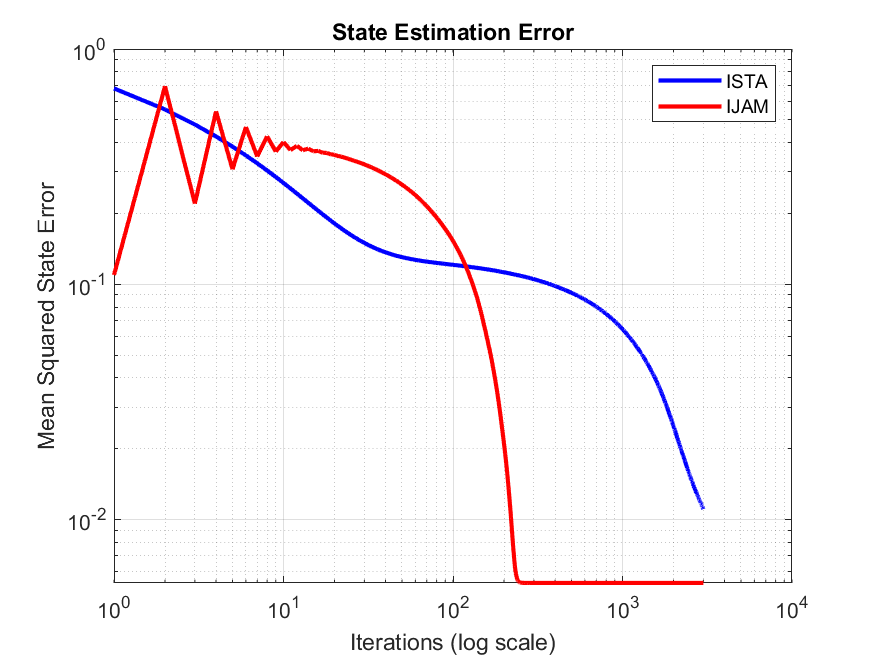
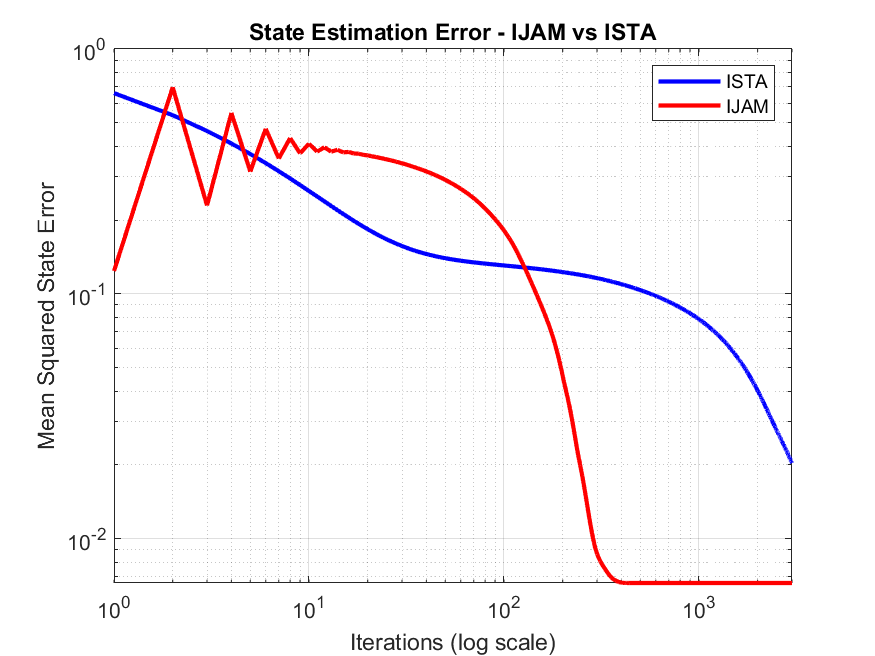
nuovi plot per grafici StateErrror e SupportError

diff --git a/1_Modeling/Task1/Test_Attacks.m b/1_Modeling/Task1/Test_Attacks.m
@@ -3,73 +3,84 @@
 % Parametri base
 n = 15; q = 30; sigma = 1e-2;
 lambda = 0.1;
-max_iter = 3000; num_runs = 20; tol = 1e-10;
-G = [C, eye(q)];
-nu_ista = 1 / norm(G, 2)^2;
-nu_ijam = 0.7;
+max_iter = 1e4; num_runs = 20; tol = 0;
+
+% Creazione cartella per i plot
+if ~exist('NewPlots/Plot_attacks', 'dir')
+    mkdir('NewPlots/Plot_attacks');
+end
 
 % Valori di h da testare
-h_values = [1, 3, 5, 10, 15];
+h_values = [ 3, 5, 10, 20];
 
 for hv = 1:length(h_values)
     h = h_values(hv);
-    fprintf('\\n===== h = %d sensori attaccati =====\\n', h);
+    fprintf('\n===== TESTING h = %d sensors under attack =====\n', h);
 
+    % Preallocazione errori
     state_errors_ista_all = zeros(max_iter, num_runs);
     attack_errors_ista_all = zeros(max_iter, num_runs);
     state_errors_ijam_all = zeros(max_iter, num_runs);
     attack_errors_ijam_all = zeros(max_iter, num_runs);
 
     for run = 1:num_runs
+        % Generazione dati
         C = randn(q, n);
         x_true = 2 + rand(n,1);
         neg_idx = rand(n,1) > 0.5;
         x_true(neg_idx) = -3 + rand(sum(neg_idx),1);
-        attack_idx = randperm(q, h);
-        a_true = zeros(q,1);
-        a_true(attack_idx) = (-1).^randi([0,1], h, 1) .* (4 + rand(h,1));
-        y = C * x_true + a_true + sigma * randn(q,1);
 
+        a_true = zeros(q,1);
+        attack_idx = randperm(q, h);
+        a_true(attack_idx) = (-1).^randi([0,1], h, 1) .* (4 + rand(h,1));
+
+        eta = sigma * randn(q,1);
+        y = C * x_true + a_true + eta;
+
+        G = [C, eye(q)];
+        nu_ista = 1 / norm(G, 2)^2;
+        nu_ijam = 0.7;
+
+        % Esecuzione algoritmi
         [~, ~, se_ista, ae_ista] = ISTA(C, y, lambda, nu_ista, max_iter, tol, x_true, a_true);
         [~, ~, se_ijam, ae_ijam] = IJAM(C, y, lambda, nu_ijam, max_iter, tol, x_true, a_true);
 
+        % Salvataggio errori
         state_errors_ista_all(:, run) = se_ista;
         attack_errors_ista_all(:, run) = ae_ista;
         state_errors_ijam_all(:, run) = se_ijam;
         attack_errors_ijam_all(:, run) = ae_ijam;
     end
 
-    % Media per ogni iterazione
+    % Calcolo delle medie
     state_errors_ista_mean = mean(state_errors_ista_all, 2, 'omitnan');
     attack_errors_ista_mean = mean(attack_errors_ista_all, 2, 'omitnan');
     state_errors_ijam_mean = mean(state_errors_ijam_all, 2, 'omitnan');
     attack_errors_ijam_mean = mean(attack_errors_ijam_all, 2, 'omitnan');
 
-    % Plot
+    % === PLOT STATE ERROR
     figure;
-    loglog(1:max_iter, state_errors_ista_mean, 'b', 'LineWidth', 2); hold on;
-    loglog(1:max_iter, state_errors_ijam_mean, 'r', 'LineWidth', 2);
-    xlabel('Iterations (log scale)');
-    ylabel('Mean Squared State Error');
-    title(['State Error - h = ', num2str(h)]);
+    semilogx(1:max_iter, state_errors_ista_mean, 'b', 'LineWidth', 1); hold on;
+    semilogx(1:max_iter, state_errors_ijam_mean, 'r', 'LineWidth', 1);
+    xlabel('Iterations (log scale)', 'Interpreter', 'latex');
+    ylabel('Mean Squared State Error', 'Interpreter', 'latex');
+    title(['State Estimation Error - $h$ = ', num2str(h)], 'Interpreter', 'latex');
     legend('ISTA', 'IJAM');
     grid on;
 
-    filename = sprintf('Plot_attacks/StateError_h_%d.png', h);
+    filename = sprintf('NewPlots/Plot_attacks/StateError_h_%d.png', h);
     saveas(gcf, filename);
 
-
+    % === PLOT SUPPORT ERROR
     figure;
-    loglog(1:max_iter, attack_errors_ista_mean, 'b', 'LineWidth', 2); hold on;
-    loglog(1:max_iter, attack_errors_ijam_mean, 'r', 'LineWidth', 2);
-    xlabel('Iterations (log scale)');
-    ylabel('Mean Support Attack Error');
-    title(['Support Error - h = ', num2str(h)]);
+    semilogx(1:max_iter, attack_errors_ista_mean, 'b', 'LineWidth', 1); hold on;
+    semilogx(1:max_iter, attack_errors_ijam_mean, 'r', 'LineWidth', 1);
+    xlabel('Iterations (log scale)', 'Interpreter', 'latex');
+    ylabel('Mean Support Attack Error', 'Interpreter', 'latex');
+    title(['Support Attack Error - $h$ = ', num2str(h)], 'Interpreter', 'latex');
     legend('ISTA', 'IJAM');
     grid on;
 
-    filename = sprintf('Plot_attacks/SupportError_h_%d.png', h);
+    filename = sprintf('NewPlots/Plot_attacks/SupportError_h_%d.png', h);
     saveas(gcf, filename);
-
-
 end

diff --git a/1_Modeling/Task1/Test_Nu.m b/1_Modeling/Task1/Test_Nu.m
@@ -1,24 +1,30 @@
-%% TASK 1 - ANALISI VARIABILE NU
+%% TASK 1 - ANALISI VARIAZIONE DI NU
 
 % Parametri base
 n = 15; q = 30; h = 2; sigma = 1e-2;
 lambda = 0.1;
-max_iter = 3000; num_runs = 20; tol = 1e-10;
+max_iter = 1e4; num_runs = 20; tol = 0;
 
-% Valori da testare (fattori moltiplicativi di 1/||G||^2)
-nu_factors = [0.01, 0.05, 0.1, 0.5, 1.0];
+% Fattori moltiplicativi per nu = factor / ||G||^2
+nu_factors = [0.01, 0.1, 0.5, 1.0];
+
+% Creazione cartella se non esiste
+if ~exist('NewPlots/Plot_nu', 'dir')
+    mkdir('NewPlots/Plot_nu');
+end
 
 for nv = 1:length(nu_factors)
     factor = nu_factors(nv);
-    fprintf('\\n===== NU FACTOR = %.2f =====\\n', factor);
+    fprintf('\n===== NU FACTOR = %.3f =====\n', factor);
 
+    % Preallocazione errori
     state_errors_ista_all = zeros(max_iter, num_runs);
     attack_errors_ista_all = zeros(max_iter, num_runs);
     state_errors_ijam_all = zeros(max_iter, num_runs);
     attack_errors_ijam_all = zeros(max_iter, num_runs);
 
     for run = 1:num_runs
-        % Generazione dei dati
+        % Generazione dati casuali
         C = randn(q, n);
         x_true = 2 + rand(n,1);
         neg_idx = rand(n,1) > 0.5;
@@ -28,52 +34,49 @@ for nv = 1:length(nu_factors)
         a_true(attack_idx) = (-1).^randi([0,1], h, 1) .* (4 + rand(h,1));
         y = C * x_true + a_true + sigma * randn(q,1);
 
-        % Calcolo di G e adattamento di nu
+        % Adattamento step-size
         G = [C, eye(q)];
         nu = factor / norm(G, 2)^2;
 
-        % Esecuzione algoritmi
         [~, ~, se_ista, ae_ista] = ISTA(C, y, lambda, nu, max_iter, tol, x_true, a_true);
         [~, ~, se_ijam, ae_ijam] = IJAM(C, y, lambda, nu, max_iter, tol, x_true, a_true);
 
+        % Salvataggio errori
         state_errors_ista_all(:, run) = se_ista;
         attack_errors_ista_all(:, run) = ae_ista;
         state_errors_ijam_all(:, run) = se_ijam;
         attack_errors_ijam_all(:, run) = ae_ijam;
     end
 
-    % Medie su tutte le run
+    % Medie
     state_errors_ista_mean = mean(state_errors_ista_all, 2, 'omitnan');
     attack_errors_ista_mean = mean(attack_errors_ista_all, 2, 'omitnan');
     state_errors_ijam_mean = mean(state_errors_ijam_all, 2, 'omitnan');
     attack_errors_ijam_mean = mean(attack_errors_ijam_all, 2, 'omitnan');
 
-    % PLOT - Stato
+    % === PLOT STATE ERROR (x log, y lineare)
     figure;
-    loglog(1:max_iter, state_errors_ista_mean, 'b', 'LineWidth', 2); hold on;
-    loglog(1:max_iter, state_errors_ijam_mean, 'r', 'LineWidth', 2);
+    semilogx(1:max_iter, state_errors_ista_mean, 'b', 'LineWidth', 1); hold on;
+    semilogx(1:max_iter, state_errors_ijam_mean, 'r', 'LineWidth', 1);
     xlabel('Iterations (log scale)');
     ylabel('Mean Squared State Error');
-    title(['State Error - \nu Factor = ', num2str(factor)]);
+    title(['State Estimation Error - \nu = ', num2str(factor)]);
     legend('ISTA', 'IJAM');
     grid on;
-    
-    filename = sprintf('Plot_nu/StateError_nu_%.3f.png', factor);
+
+    filename = sprintf('NewPlots/Plot_nu/StateError_nu_%.3f.png', factor);
     saveas(gcf, filename);
 
-
-    % PLOT - Supporto
+    % === PLOT SUPPORT ERROR (x log, y lineare)
     figure;
-    loglog(1:max_iter, attack_errors_ista_mean, 'b', 'LineWidth', 2); hold on;
-    loglog(1:max_iter, attack_errors_ijam_mean, 'r', 'LineWidth', 2);
+    semilogx(1:max_iter, attack_errors_ista_mean, 'b', 'LineWidth', 1); hold on;
+    semilogx(1:max_iter, attack_errors_ijam_mean, 'r', 'LineWidth', 1);
     xlabel('Iterations (log scale)');
     ylabel('Mean Support Attack Error');
-    title(['Support Error - \nu Factor = ', num2str(factor)]);
+    title(['Support Attack Error - \nu = ', num2str(factor)]);
     legend('ISTA', 'IJAM');
     grid on;
 
-    filename = sprintf('Plot_nu/SupportError_nu_%.3f.png', factor);
+    filename = sprintf('NewPlots/Plot_nu/SupportError_nu_%.3f.png', factor);
     saveas(gcf, filename);
-
-
 end

diff --git a/1_Modeling/Task1/Test_Lambda.m b/1_Modeling/Task1/Test_Lambda.m
@@ -1,13 +1,17 @@
-
-%% TASK 1 - ANALISI VARIABILE LAMBDA
+%% TASK 1 - ANALISI VARIAZIONE DI LAMBDA
 
 % Parametri del problema
 n = 15; q = 30; h = 2; sigma = 1e-2;
 nu_ijam = 0.7;
-max_iter = 3000; num_runs = 20; tol = 1e-10;
+max_iter = 1e4; num_runs = 20; tol = 0;
 
-% Valori di lambda da testare
+% Vettore dei lambda da testare
 lambda_values = [0.01, 0.1, 1, 10];
+
+% Creazione cartella se non esiste
+if ~exist('NewPlots/Plot_lambda', 'dir')
+    mkdir('NewPlots/Plot_lambda');
+end
 
 for lv = 1:length(lambda_values)
     lambda = lambda_values(lv);
@@ -19,7 +23,7 @@ for lv = 1:length(lambda_values)
     attack_errors_ijam_all = zeros(max_iter, num_runs);
 
     for run = 1:num_runs
-        % Generazione dei dati
+        % Generazione dati random
         C = randn(q, n);
         x_true = 2 + rand(n,1);
         negative_indices = rand(n,1) > 0.5;
@@ -42,37 +46,35 @@ for lv = 1:length(lambda_values)
         attack_errors_ijam_all(:, run) = ae_ijam;
     end
 
-    % Calcolo delle medie
+    % Calcolo medie
     state_errors_ista_mean = mean(state_errors_ista_all, 2, 'omitnan');
     attack_errors_ista_mean = mean(attack_errors_ista_all, 2, 'omitnan');
     state_errors_ijam_mean = mean(state_errors_ijam_all, 2, 'omitnan');
     attack_errors_ijam_mean = mean(attack_errors_ijam_all, 2, 'omitnan');
 
-    % PLOT errori di stato
+    % === PLOT STATE ESTIMATION ERROR (x log, y lineare)
     figure;
-    loglog(1:max_iter, state_errors_ista_mean, 'b', 'LineWidth', 2); hold on;
-    loglog(1:max_iter, state_errors_ijam_mean, 'r', 'LineWidth', 2);
+    semilogx(1:max_iter, state_errors_ista_mean, 'b', 'LineWidth', 1); hold on;
+    semilogx(1:max_iter, state_errors_ijam_mean, 'r', 'LineWidth', 1);
     xlabel('Iterations (log scale)');
     ylabel('Mean Squared State Error');
-    title(['State Error - \lambda = ', num2str(lambda)]);
+    title(['State Estimation Error - \lambda = ', num2str(lambda)]);
     legend('ISTA', 'IJAM');
     grid on;
 
-    filename = sprintf('Plot_lambda/StateError_lambda_%.2f.png', lambda);
+    filename = sprintf('NewPlots/Plot_lambda/StateError_lambda_%.2f.png', lambda);
     saveas(gcf, filename);
 
-
-    % PLOT errori di supporto
+    % === PLOT SUPPORT ERROR (x log, y lineare)
     figure;
-    loglog(1:max_iter, attack_errors_ista_mean, 'b', 'LineWidth', 2); hold on;
-    loglog(1:max_iter, attack_errors_ijam_mean, 'r', 'LineWidth', 2);
+    semilogx(1:max_iter, attack_errors_ista_mean, 'b', 'LineWidth', 1); hold on;
+    semilogx(1:max_iter, attack_errors_ijam_mean, 'r', 'LineWidth', 1);
     xlabel('Iterations (log scale)');
     ylabel('Mean Support Attack Error');
-    title(['Support Error - \lambda = ', num2str(lambda)]);
+    title(['Support Attack Error - \lambda = ', num2str(lambda)]);
     legend('ISTA', 'IJAM');
     grid on;
-    
-    filename = sprintf('Plot_lambda/SupportError_lambda_%.2f.png', lambda);
-    saveas(gcf, filename);
 
+    filename = sprintf('NewPlots/Plot_lambda/SupportError_lambda_%.2f.png', lambda);
+    saveas(gcf, filename);
 end

diff --git a/1_Modeling/Task1/Task1.m b/1_Modeling/Task1/Task1.m
@@ -8,9 +8,9 @@ sigma = 1e-2; % Deviazione standard del rumore
 lambda = 0.1; % Parametro di regolarizzazione
 
 % Parametri di test
-max_iter = 3000;
+max_iter = 1e4;
 num_runs = 20;
-tol = 1e-10;
+tol = 0;
 
 % ESECUZIONE MULTIPLA DEGLI ALGORITMI
 x_sum_ista = zeros(n,1);
@@ -76,25 +76,26 @@ state_errors_ijam_mean = mean(state_errors_ijam_all, 2, 'omitnan');
 attack_errors_ijam_mean = mean(attack_errors_ijam_all, 2, 'omitnan');
 
 figure;
-loglog(1:max_iter, state_errors_ista_mean, 'b', 'LineWidth', 2); hold on;
-loglog(1:max_iter, state_errors_ijam_mean, 'r', 'LineWidth', 2);
+semilogx(1:max_iter, state_errors_ista_mean, 'b', 'LineWidth', 1); hold on;
+semilogx(1:max_iter, state_errors_ijam_mean, 'r', 'LineWidth', 1);
 xlabel('Iterations (log scale)');
 ylabel('Mean Squared State Error');
 title('State Estimation Error');
 legend('ISTA', 'IJAM');
 grid on;
 
-saveas(gcf, 'Plot_base/StateError_base.png');
+saveas(gcf, 'NewPlots/Plot_base/StateError_base.png');
 
+% === PLOT SUPPORT ERROR (x log, y lineare) ===
 figure;
-loglog(1:max_iter, attack_errors_ista_mean, 'b', 'LineWidth', 2); hold on;
-loglog(1:max_iter, attack_errors_ijam_mean, 'r', 'LineWidth', 2);
+semilogx(1:max_iter, attack_errors_ista_mean, 'b', 'LineWidth', 1); hold on;
+semilogx(1:max_iter, attack_errors_ijam_mean, 'r', 'LineWidth', 1);
 xlabel('Iterations (log scale)');
 ylabel('Mean Support Attack Error');
 title('Support Attack Error');
 legend('ISTA', 'IJAM');
 grid on;
 
-saveas(gcf, 'Plot_base/SupportError_base.png');
+saveas(gcf, 'NewPlots/Plot_base/SupportError_base.png');
 
 

diff --git a/1_Modeling/Task1/ISTA.m b/1_Modeling/Task1/ISTA.m
@@ -16,11 +16,10 @@ function [x, a, state_errors, attack_errors] = ISTA(C, y, lambda, nu, max_iter, 
         end
 
         state_errors(k) = norm(x - x_true) / (norm(x_true) + 1e-8);
-        attack_errors(k) = sum(abs((a ~= 0) - (a_true ~= 0))) / q;
-        
-        % if norm(x - x_old, 2) < tol && k > 100
-        %     %disp("Convergenza ISTA");
-        %     break;
-        % end
+
+        % Support attack error (somma delle differenze tra supporti, senza normalizzazione)
+        support_true = double(a_true ~= 0);
+        support_est  = double(a ~= 0);
+        attack_errors(k) = sum(abs(support_true - support_est));
     end
 end

diff --git a/1_Modeling/Task1/IJAM.m b/1_Modeling/Task1/IJAM.m
@@ -17,11 +17,10 @@ function [x, a, state_errors, attack_errors] = IJAM(C, y, lambda, nu, max_iter, 
         end
 
         state_errors(k) = norm(x - x_true) / (norm(x_true) + 1e-8);
-        attack_errors(k) = sum(abs((a ~= 0) - (a_true ~= 0))) / q;
 
-        % if norm(x - x_old, 2) < tol && k > 100
-        %     %disp("Convergenza IJAM");
-        %     break;
-        % end
+        % Support attack error (somma delle differenze tra supporti, senza normalizzazione)
+        support_true = double(a_true ~= 0);
+        support_est  = double(a ~= 0);
+        attack_errors(k) = sum(abs(support_true - support_est));
     end
 end
